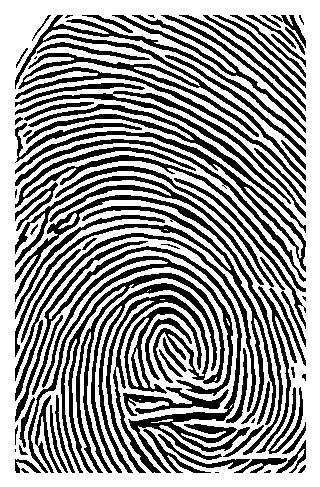
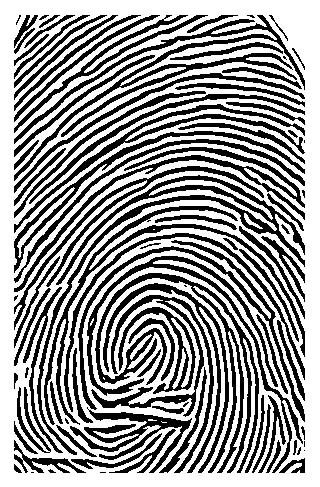
update

diff --git a/fingerprint_enhancement/src/enhancement.py b/fingerprint_enhancement/src/enhancement.py
@@ -16,8 +16,8 @@ if __name__ == '__main__':
     for img_name in tqdm(os.listdir(origin_image_folder)):
         img_path = os.path.join(origin_image_folder, img_name)
         img = cv2.cvtColor(cv2.imread(img_path), cv2.COLOR_BGR2RGB)
-        crop_width = int(img.shape[1] * 0.75)
-        crop_height = int(img.shape[0] * 0.75)
+        crop_width = int(img.shape[1] * 0.85)
+        crop_height = int(img.shape[0] * 0.85)
         # 计算中心点坐标
         center_x = int(img.shape[1] / 2)
         center_y = int(img.shape[0] / 2)
@@ -31,7 +31,7 @@ if __name__ == '__main__':
         img_gray = rgb2gray(img_gamma, np.asarray([0.2126, 0.7152, 0.0722]).astype(np.float32))
         cv2.imwrite('tmp.jpg', img_gray)
         img_gray = cv2.imread('tmp.jpg', 0)
-        clahe = cv2.createCLAHE(clipLimit=4.0, tileGridSize=(16, 16))
+        clahe = cv2.createCLAHE(clipLimit=8.0, tileGridSize=(16, 16))
         cl1 = clahe.apply(img_gray)
         cv2.normalize(cl1, cl1, 0, 255, cv2.NORM_MINMAX)
         img_en = cv2.convertScaleAbs(cl1)

diff --git a/README.md b/README.md
@@ -1,24 +1,20 @@
 # contactless-fingerprint-recognition
 
-
-
-
-
-#### origin image
-
-![](./fingerprint_enhancement/img/finger1.png)
+### origin image
 
 contactless fingerphoto
 
-![](./fingerprint_enhancement/img/L1_6.png)
+![](./fingerprint_enhancement/img/finger1.png)
 
 contact fingerprint
+
+![](./fingerprint_enhancement/img/L1_6.png)
 
 ### enhancement image
 
 ![](./fingerprint_enhancement/out/enhanced_finger1.png)
 
-contactless fingerphoto NFIQ score: **74**
+contactless fingerphoto NFIQ score: **79**
 
 ![](./fingerprint_enhancement/out/enhanced_L1_6.png)
 
